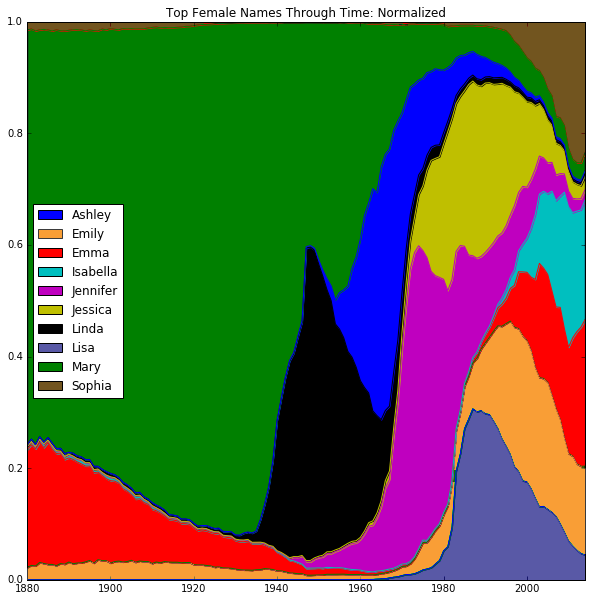
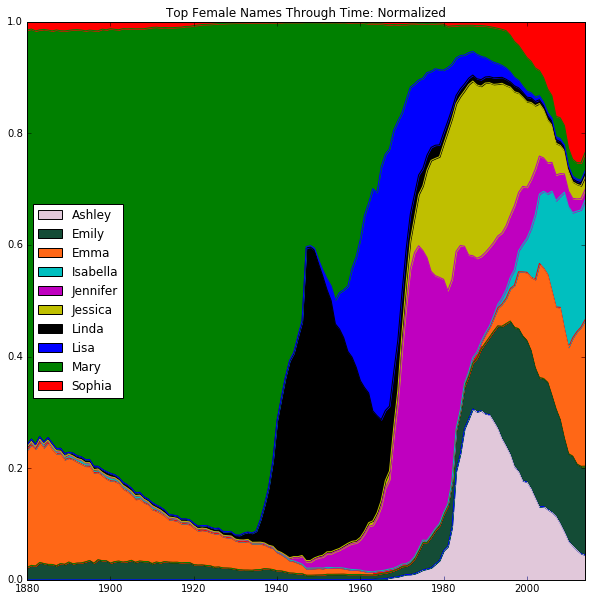
fixed colors on first chart

diff --git a/index.html b/index.html
@@ -61,7 +61,7 @@
                 <tr>
                   <th scope="row">1</th>
                   <td>Mary</td>
-                  <td>1910</td>
+                  <td>1880</td>
                   <td>F</td>
                   <td>AK</th>
                   <td>14</td>
@@ -69,7 +69,7 @@
                 <tr>
                   <th scope="row">2</th>
                   <td>Annie</td>
-                  <td>1910</td>
+                  <td>1880</td>
                   <td>F</td>
                   <td>AK</td>
                   <td>12</th>
@@ -96,7 +96,7 @@
             <div class="row">
               <div class="col-md-8 offset-md-2">
                  <p>
-                  Some useful summary statistics can nonetheless be gleaned from these preliminary data. The most popular boys’ and girls’ names of all time are Mary and James: 4,155,282 and 5,105,919 babies cumulatively since 1980, respectively. The most popular gender-ambiguous names change much more frequently, with the top spot going to Leslie in 1945 and Charlie in 2013. We defined a name as gender-ambiguous if its sex ratio was within 40:60 (i.e. no more than 10% away from 50-50 gender distribution). The difference in style between the most popular gender-ambiguous of 1945 and 2013 are emblematic of the increased preference towards individuality and “unique-sounding” names: the runners-up in 1945 were the traditionally-sounding Jackie, Jessie, Frankie, and Gerry. By 2013 these are replaced with Skyler, Dakota, Phoenix, and Justice. The name undergoing the greatest trend effect (i.e. the one with the largest contemporary increase since 1980) is Harper.
+                  Some useful summary statistics can nonetheless be gleaned from these preliminary data. The most popular boys’ and girls’ names of all time are Mary and James: 4,155,282 and 5,105,919 babies cumulatively since 1880, respectively. The most popular gender-ambiguous names change much more frequently, with the top spot going to Leslie in 1945 and Charlie in 2013. We defined a name as gender-ambiguous if its sex ratio was within 40:60 (i.e. no more than 10% away from 50-50 gender distribution). The difference in style between the most popular gender-ambiguous of 1945 and 2013 are emblematic of the increased preference towards individuality and “unique-sounding” names: the runners-up in 1945 were the traditionally-sounding Jackie, Jessie, Frankie, and Gerry. By 2013 these are replaced with Skyler, Dakota, Phoenix, and Justice. The name undergoing the greatest trend effect (i.e. the one with the largest contemporary increase since 1980) is Harper.
                   <p>
                     To get some initial idea of the flow of name trends, we created two sets of stacked-area graphs. The graphs plotted the total number of occurrences of each name in each year normalized to that year’s total births, with number of occurrences on the y-axis and year on the x-axis. This normalization was critical in order to compare the relative share of babies to which a given name corresponds, rather than the absolute number (which is subject to distortion by population growth). The sets were divided by gender and the criterion for including a name on the graph.  The first set was only concerned with names that have been the most popular in a given year - for males, this was only 7 names, as there have only been 7 unique male names to be the most popular in a given year; for females this was 10 unique names.  The second set of graphs instead took the top 5 names in each year, which turned out to be 25 unique names for males and 46 unique names for females.
                   </p>
@@ -107,13 +107,13 @@
             <figure class="figure">
               <img src="img/top1malenames_norm.png" class="figure-img img-fluid rounded" style="float:left; width: 50%">
               <img src="img/top1femalenames_norm.png" class="figure-img img-fluid rounded" style="float:right; width: 50%">
-              <figcaption class="figure-caption">Figure 1. Normalized stacked area graphs of the 7 male and 10 female names from 1880 to 2013 that ranked as <em>the</em> most popular name at least once. <em>Please keep in mind that the stacked nature of the graphs means the legend is in mirrored order to the graphs.</em></figcaption>
+              <figcaption class="figure-caption">Figure 1. Normalized stacked area graphs of the 7 male and 10 female names from 1880 to 2013 that ranked as <em>the</em> most popular name at least once.</figcaption>
             </figure>
 
             <div class="row">
               <div class="col-md-8 offset-md-2">
                 <p>
-                  The "singularly" most popular graph (as opposed to the larger, "top 5" graph) does an excellent job of capturing the salient facts about the dataset without overcomplicating its presentation of these points. The most evident point is the greater amount of inherent individuality in girls' names than boys. The fact that 10, rather than 7 names make up the most popular for girls is one indicator. Another notable point is the high degree of volatility with which these popularities change for girls; in other words, girls' names are much more subject to fads and trends. Additionally, with the exception of Noah and Jacob, the most popular male names reach back to the beginning of the time series, and remained close to their starting relative proportions for decades. Girls' names, on the other hand, have a much more varied history, with some names (like Emma) even going out of fashion before experience a contemporary resurgence. There is a clear preponderance of the name Mary during the earliest section of the time series (from 1880–1930). Successive waves of name fads (Linda, Lisa, Jennifer, Jessica, Ashley) deal blow after blow to Mary, until she is nothing but a husk of a name by the 1980s. Many of Mary's opponents, like Linda, have been effectively "fossilized," with Linda's boom and bust period occurring between 1930 and 1970 (for Ashley, Jennifer, and Jessica, their periods of popularity have just ended). Up-and-comers like Isabella and Sophia seem likely to dislodge the remaining footholds of the out-of-fashion names.
+                  The "singularly" most popular graph (as opposed to the larger, "top 5" graph) does an excellent job of capturing the salient facts about the dataset without overcomplicating its presentation of these points. The most evident point is the greater amount of inherent individuality in girls' names than boys. The fact that 10, rather than 7 names make up the most popular for girls is one indicator. Another notable point is the high degree of volatility with which these popularities change for girls; in other words, girls' names are much more subject to fads and trends. Additionally, with the exception of Noah and Jacob, the most popular male names reach back to the beginning of the time series, and remained close to their starting relative proportions for decades. Girls' names, on the other hand, have a much more varied history, with some names (like Emma) even going out of fashion before experiencing a contemporary resurgence. There is a clear preponderance of the name Mary during the earliest section of the time series (from 1880–1930). Successive waves of name fads (Linda, Lisa, Jennifer, Jessica, Ashley) deal blow after blow to Mary, until she is nothing but a husk of a name by the 1980s. Many of Mary's opponents, like Linda, have been effectively "fossilized," with Linda's boom and bust period occurring between 1930 and 1970 (for Ashley, Jennifer, and Jessica, their periods of popularity have just ended). Up-and-comers like Isabella and Sophia seem likely to dislodge the remaining footholds of the out-of-fashion names.
                 </p>
                 <p>
                   The graph based on the top 5 most popular names nevertheless is useful for providing a more macroscopic view on these trends. These graphs are a strong reflection of the prior "top 1" trends: the men exhibit the dominant stability of a few names over time, while the women have a much more colorful and dynamically-changing bank of names to choose from. As a whole, these top 5 graphs are primarily helpful in confirming the two primary observations from above: (1) that the distribution of names becomes increasingly heterogeneous over time, reflecting increased cultural and racial diversity; and (2) that women's names are generally more varied and subject to stronger swings in popularity.
